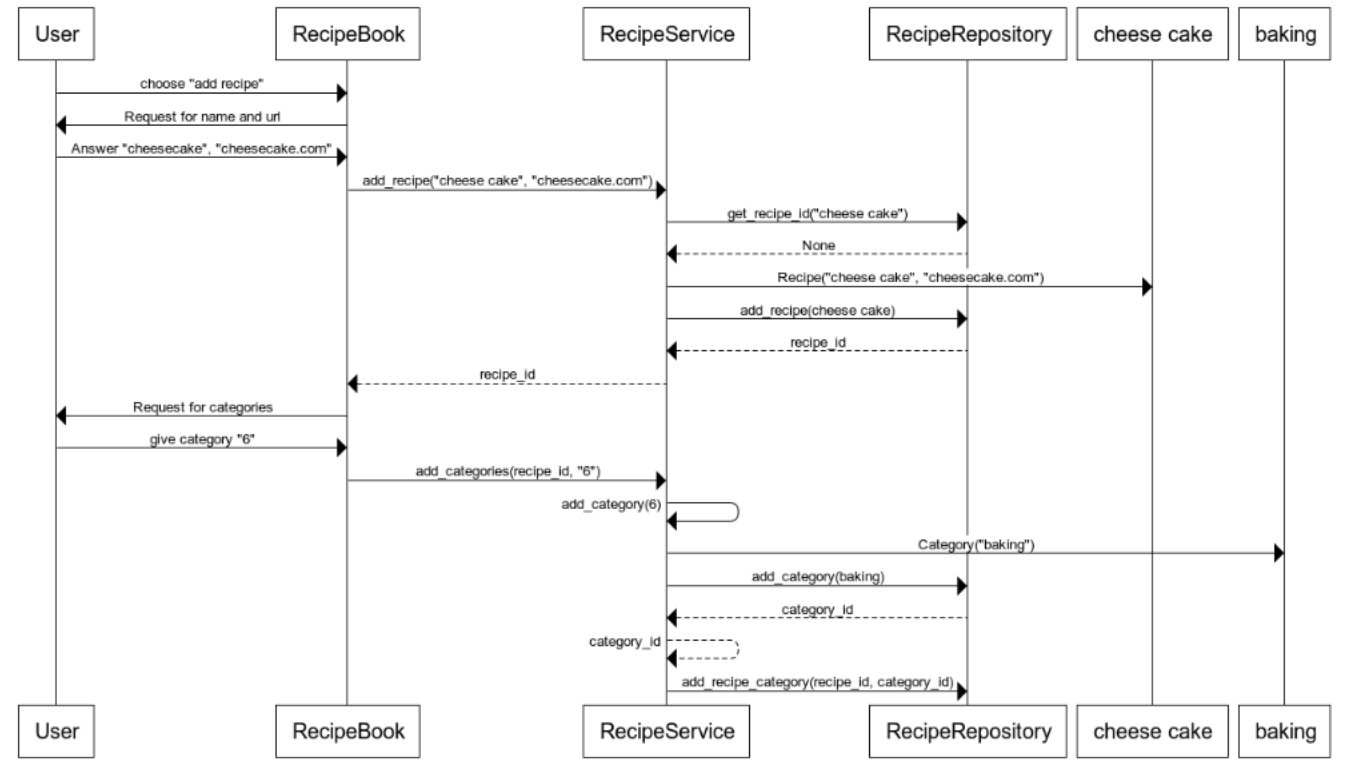
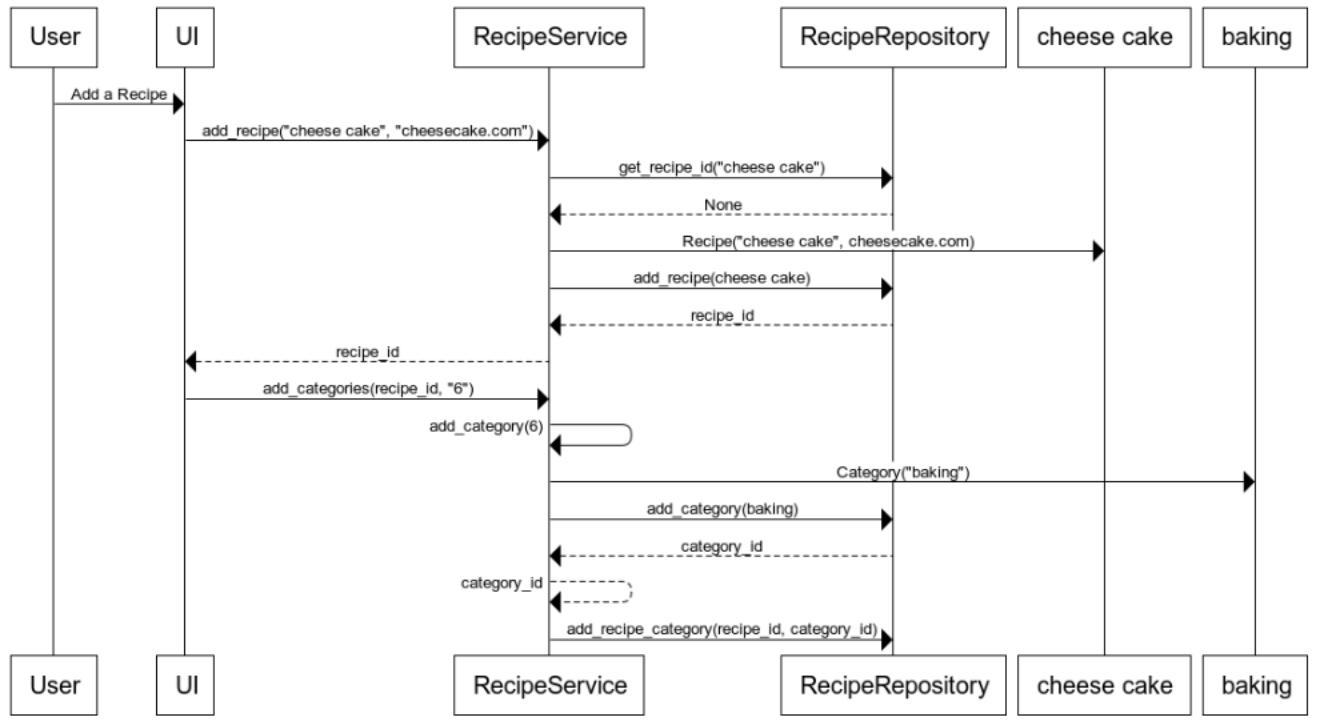
testejä ja muutos sekvenssikaavioon

diff --git a/src/tests/recipe_service_test.py b/src/tests/recipe_service_test.py
@@ -18,6 +18,12 @@ class TestRecipeService(unittest.TestCase):
         self.assertEqual(recipes[0].name, self.cheesecake.name)
         self.assertEqual(recipes[0].url, self.cheesecake.url)
 
+    def test_add_categories(self):
+        recipe_id = self.service.add_recipe(self.cheesecake.name, self.cheesecake.url)
+        self.service.add_categories(recipe_id, "112A")
+        categories = self.service.get_categories()
+        self.assertEqual(len(categories), 2)
+
     def test_add_category(self):
         self.service.add_category(1)
         categories = self.service.get_categories()
@@ -30,24 +36,27 @@ class TestRecipeService(unittest.TestCase):
 
     def test_change_url(self):
         self.service.add_recipe(self.cheesecake.name, self.cheesecake.url)
-        self.service.change_url(self.cheesecake.name, "test.address")
+        self.service.change_url(self.cheesecake.name, "new.address")
         url = self.service.get_url(self.cheesecake.name)
-        self.assertEqual(url, "test.address")
+        self.assertEqual(url, "new.address")
 
     def test_change_name(self):
         self.service.add_recipe(self.cheesecake.name, self.cheesecake.url)
         recipe_id = self.service.get_recipe_id(self.cheesecake.name)
-        self.service.change_name(self.cheesecake.name, "test")
+        self.service.change_name(self.cheesecake.name, "new name")
         name = self.service.get_recipe_name(recipe_id)
-        self.assertEqual(name, "test")
+        self.assertEqual(name, "new name")
+    
+    def test_list_all(self):
+        recipe_id = self.service.add_recipe(self.cheesecake.name, self.cheesecake.url)
+        recipes = self.service.list_all()
+        self.assertEqual(len(recipes), 1)
 
     def test_remove_recipe(self):
         self.service.add_recipe(self.cheesecake.name, self.cheesecake.url)
         self.service.remove_recipe(self.cheesecake.name)
         recipes = recipe_repository.find_all()
         self.assertEqual(len(recipes), 0)
-        exist = self.service.remove_recipe(self.cheesecake.name)
-        self.assertEqual(exist, False)
     
     def test_remove_category(self):
         category_id = self.service.add_category(1)

diff --git a/src/tests/recipe_repository_test.py b/src/tests/recipe_repository_test.py
@@ -60,3 +60,17 @@ class TestRecipeRepository(unittest.TestCase):
         recipe_repository.remove_recipe_category(1, 1)
         recipe_categories = recipe_repository.get_recipe_categories()
         self.assertEqual(len(recipe_categories), 0)
+
+    def test_change_url(self):
+        recipe_repository.add_recipe(self.cheesecake)
+        recipe_id = recipe_repository.get_recipe_id(self.cheesecake.name)
+        recipe_repository.change_url("new.address", recipe_id)
+        url = recipe_repository.get_url(self.cheesecake.name)
+        self.assertEqual(url, "new.address")
+
+    def test_change_name(self):
+        recipe_repository.add_recipe(self.cheesecake)
+        recipe_id = recipe_repository.get_recipe_id(self.cheesecake.name)
+        recipe_repository.change_name("new name", recipe_id)
+        name = recipe_repository.get_recipe_name(recipe_id)
+        self.assertEqual(name, "new name")

diff --git a/src/repositories/recipe_repository.py b/src/repositories/recipe_repository.py
@@ -110,4 +110,10 @@ class RecipeRepository:
         recipe = cursor.execute("SELECT name FROM Recipe WHERE id = (?)", [recipe_id]).fetchone()
         return recipe[0]
 
+    def find_all(self):
+        cursor = self._connection.cursor()
+        cursor.execute("SELECT * FROM Recipe")
+        rows = cursor.fetchall()
+        return [Recipe(row["name"], row["url"]) for row in rows]
+
 recipe_repository = RecipeRepository(get_database_connection())

diff --git a/src/services/recipe_service.py b/src/services/recipe_service.py
@@ -68,9 +68,13 @@ class RecipeService:
 
     def list_by_category(self, name):
         if name == "show all":
-            recipes = self.repository.list_all()
+            recipes = self.list_all()
         else:
             recipes = self.repository.list_by_category(name)
+        return recipes
+
+    def list_all(self):
+        recipes = self.repository.list_all()
         return recipes
 
     def remove_recipe(self, name):

diff --git a/dokumentaatio/arkkitehtuuri.md b/dokumentaatio/arkkitehtuuri.md
@@ -10,4 +10,6 @@ Kun käyttäjä valitsee luoda uuden reseptin, etenee sovelluksen logiikka seura
 
 ![sekvenssi-reseptin-lisaaminen](./kuvat/sekvenssi-reseptin-lisaaminen.png)
 
-Käyttäjältä pyydetään reseptin nimi ja verkko-osoite, jonka jälkeen RecipeService selvittää, onko saman niminen resepti jo olemassa. Mikäli ei ole, luo RecipeService uuden reseptin ja RecipeRepository tallettaa sen tietokantaan. Käyttöliittymä pyytää käyttäjää syöttämään reseptin kategoriat. RecipeService välittää ne yksi kerrallaan RecipeRepositoriolle, joka luo kategoriat tietokantaan sekä yhdistää reseptin ja kategorioiden id:t toisiinsa.
+Käyttäjä kirjoittaa reseptin nimen, verkko-osoitteen sekä kategoriat.
+RecipeService selvittää, onko saman niminen resepti jo olemassa. Mikäli ei ole, luo RecipeService uuden reseptin ja RecipeRepository tallettaa sen tietokantaan.
+Tämän jälkeen RecipeService lisää kategoriat välittämällä ne yksi kerrallaan RecipeRepositoriolle. RecipeRepository luo kategoriat tietokantaan sekä yhdistää reseptin ja kategorioiden id:t toisiinsa.
